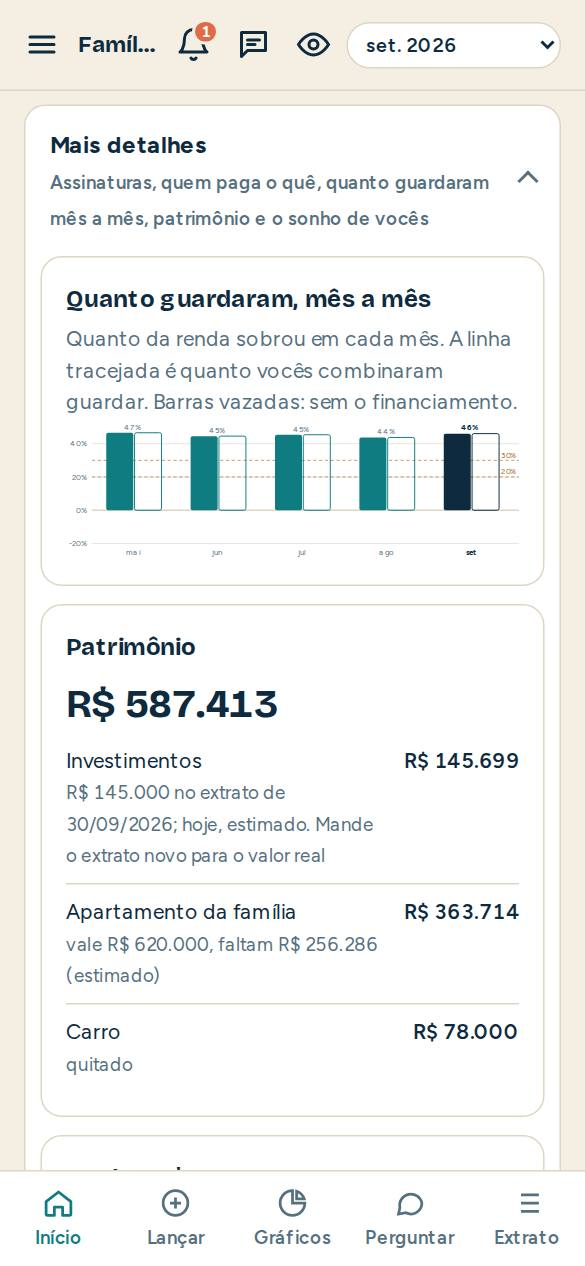
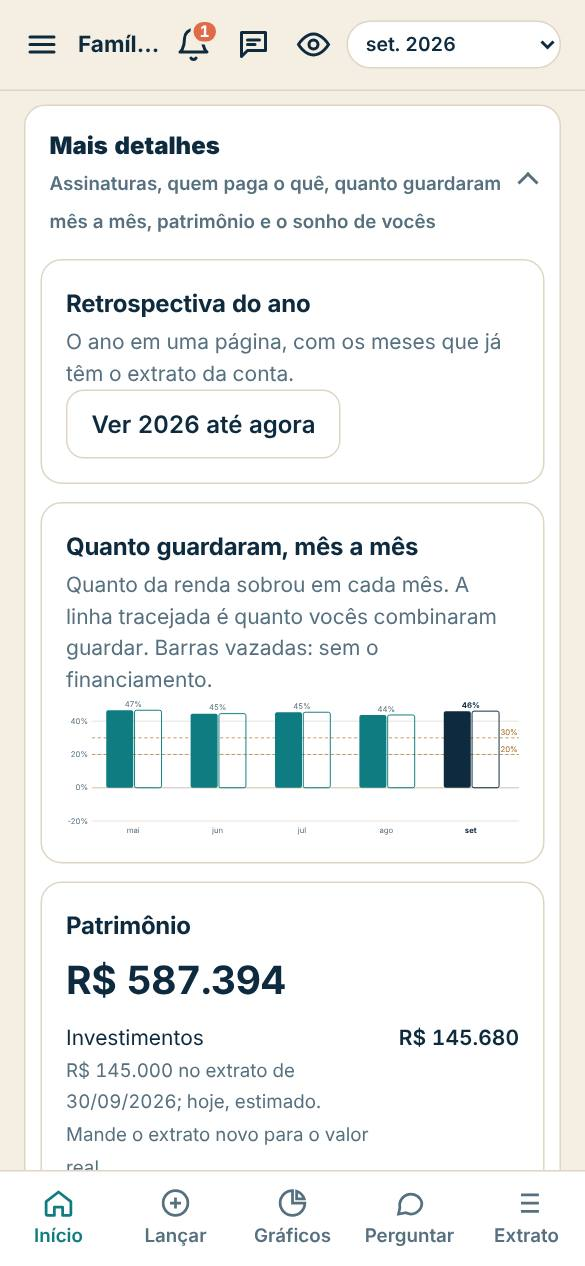
v93: year retrospective (validated sums, share without amounts) and dynamic home (notices on top, new ones marked, message after saving)
Claude-Session: https://claude.ai/code/session_01HTxyDPPEQrF1SknoQ9axHM

diff --git a/public/js/admin/content.js b/public/js/admin/content.js
@@ -1,6 +1,6 @@
 // Starting content for the console's service matrix, documentation and usage labels.
 import { BUG_STUDY } from '../lib/bugstudy.js';
-import { NEW_DOCS, DOC_SONHO, DOC_SEGURANCA, DOC_DORES, DOC_PATRIMONIO, DOC_PARCELAS, DOC_TARIFAS } from '../lib/docsections.js';
+import { NEW_DOCS, DOC_SONHO, DOC_SEGURANCA, DOC_DORES, DOC_PATRIMONIO, DOC_PARCELAS, DOC_TARIFAS, DOC_RETRO_INICIO } from '../lib/docsections.js';
 // Once saved in the console, the database copy is the one that counts.
 
 // Friendly names for the usage keys recorded by the app (public/js/usage.js).
@@ -11,7 +11,7 @@ export const FEATURE_LABELS = {
   'perguntar.enviar': 'Pergunta ao assistente', 'fechar.mes': 'Fechou um mês', 'graficos.salvar': 'Salvou gráfico', privacidade: 'Modo privacidade',
   'opiniao.erro': 'Mandou erro', 'opiniao.ideia': 'Mandou ideia', 'opiniao.critica': 'Mandou crítica', 'duvida.ler': 'Leu uma dúvida', 'duvida.perguntar': 'Perguntou nas Dúvidas',
   'menu.familia': 'Menu: Família', 'menu.divisao': 'Menu: Quem paga o quê', 'menu.metas': 'Menu: Metas', 'menu.patrimonio': 'Menu: Patrimônio', 'menu.categorias': 'Menu: Categorias',
-  'menu.avisos': 'Menu: Notificações', 'inicio.parcelas': 'Abriu as parcelas que mais pesam (Início)', 'inicio.tarifas': 'Abriu o que o banco cobrou (Início)', 'patrimonio.amortizou': 'Abateu uma amortização do financiamento', 'patrimonio.nao_abate': 'Disse que um pagamento não abate financiamento', 'app.atualizar': 'Tocou em "atualizar agora" (versão nova)', 'avisos.convite_sim': 'Aceitou ligar as notificações (pop-up)', 'avisos.convite_nao': 'Disse "agora não" às notificações (pop-up)', 'avisos.ligou': 'Ligou as notificações neste celular', 'aviso.tocou': 'Tocou numa notificação e foi direto ao lugar', 'avisos.teste_chegou': 'O aviso de teste apareceu no celular', 'avisos.teste_nao_chegou': 'Aviso de teste não chegou ao celular (bateria ou internet)', 'avisos.teste_nao_mostrou': 'Aviso de teste chegou, mas o celular não mostrou (ajustes)', 'avisos.teste_bloqueado': 'O celular bloqueou o aviso de teste', 'teste.jornada': 'Dono do produto: rever os convites de abertura', 'menu.contexto': 'Menu: O que o assistente sabe', 'menu.ajuda': 'Menu: Ajuda', 'menu.duvidas': 'Menu: Dúvidas', 'menu.opiniao': 'Menu: Dar opinião',
+  'menu.avisos': 'Menu: Notificações', 'inicio.parcelas': 'Abriu as parcelas que mais pesam (Início)', 'inicio.tarifas': 'Abriu o que o banco cobrou (Início)', 'retro.ano': 'Viu a retrospectiva do ano', 'retro.compartilhar': 'Compartilhou a retrospectiva do ano', 'inicio.novo_aviso': 'Viu um aviso novo no topo do Início', 'patrimonio.amortizou': 'Abateu uma amortização do financiamento', 'patrimonio.nao_abate': 'Disse que um pagamento não abate financiamento', 'app.atualizar': 'Tocou em "atualizar agora" (versão nova)', 'avisos.convite_sim': 'Aceitou ligar as notificações (pop-up)', 'avisos.convite_nao': 'Disse "agora não" às notificações (pop-up)', 'avisos.ligou': 'Ligou as notificações neste celular', 'aviso.tocou': 'Tocou numa notificação e foi direto ao lugar', 'avisos.teste_chegou': 'O aviso de teste apareceu no celular', 'avisos.teste_nao_chegou': 'Aviso de teste não chegou ao celular (bateria ou internet)', 'avisos.teste_nao_mostrou': 'Aviso de teste chegou, mas o celular não mostrou (ajustes)', 'avisos.teste_bloqueado': 'O celular bloqueou o aviso de teste', 'teste.jornada': 'Dono do produto: rever os convites de abertura', 'menu.contexto': 'Menu: O que o assistente sabe', 'menu.ajuda': 'Menu: Ajuda', 'menu.duvidas': 'Menu: Dúvidas', 'menu.opiniao': 'Menu: Dar opinião',
   'menu.applepay': 'Menu: Atalhos do iPhone', 'conta.zerar': 'Zerou os lançamentos da família', 'extrato.anotacao': 'Anotou um lançamento', 'extrato.categoria': 'Filtrou o Extrato por categoria', 'categorias.juntar': 'Juntou duas categorias', 'lancar.varios': 'Enviou vários arquivos de uma vez', 'lancar.planilha': 'Trouxe lançamentos de uma planilha', 'backup.planilha': 'Baixou a planilha (CSV)', 'exemplo.fatura': 'Do mês de exemplo, foi enviar a fatura', 'exemplo.falar': 'Do mês de exemplo, foi lançar falando', 'seguranca.biometria': 'Ligou a digital ou o rosto', 'seguranca.desbloqueio_bio': 'Entrou de novo com a digital ou o rosto', 'seguranca.desbloqueio_senha': 'Entrou de novo com a senha', 'seguranca.aviso': 'Viu o aviso "vamos desconectar em 30 s"', 'seguranca.continuar': 'Tocou em Continuar no app (aviso de inatividade)', 'seguranca.desconectar': 'Tocou em Desconectar agora (aviso de inatividade)', 'seguranca.tempo': 'Mudou o tempo para desconectar', 'seguranca.bloquear': 'Desconectou o app na mão', 'applepay.codigo': 'Gerou código do atalho do iPhone', 'lancar.comprovante': 'Leu comprovante compartilhado', 'atalho.voz': 'Abriu pelo atalho Falar', 'atalho.nota': 'Abriu pelo atalho Nota', 'atalho.pdf': 'Abriu pelo atalho PDF', 'atalho.compartilhar': 'Compartilhou algo com o app', sininho: 'Abriu o sininho', 'menu.backup': 'Menu: Backup', 'menu.sobre': 'Menu: Sobre', 'menu.metricas': 'Menu: Métricas', 'menu.conta': 'Menu: Conta',
 };
 export const AREA_LABELS = { extrato: 'Extrato', conta: 'Conta', exemplo: 'Mês de exemplo', seguranca: 'Segurança', atalho: 'Atalhos', applepay: 'Atalhos do iPhone', aba: 'Abas', lancar: 'Lançar', perguntar: 'Perguntar', fechar: 'Fechar o mês', graficos: 'Gráficos', privacidade: 'Privacidade', opiniao: 'Opinião', duvida: 'Dúvidas', menu: 'Menu' };
@@ -35,6 +35,8 @@ export const SERVICES = [
   sv('split', 'Quem paga o quê', 'Quanto cada um pagou e o acerto do mês', 'Menu → Quem paga o quê', 'no_ar', 'gratis', 'nao', '—', ['menu.divisao']),
   sv('fam', 'Família e convites', 'Convite pelo WhatsApp; todos veem os mesmos números', 'Menu → Família', 'no_ar', 'gratis', 'nao', 'Supabase Auth', ['menu.familia']),
   sv('push', 'Notificações', 'Um aviso por dia no máximo e resumo de domingo; avisos da família', 'Menu → Notificações', 'no_ar', 'gratis', 'nao', 'Web Push; Vercel Cron', ['menu.avisos', 'aviso.tocou', 'avisos.ligou', 'avisos.teste_chegou', 'avisos.teste_nao_chegou', 'avisos.teste_nao_mostrou', 'avisos.teste_bloqueado']),
+  sv('retro_ano', 'Retrospectiva do ano', 'O ano em uma página: quanto guardaram e a meta, melhor e pior mês, para onde mais foi, maior gasto, o que o banco cobrou; compartilhar só a porcentagem', 'Início (cartão em dezembro e janeiro; em Mais detalhes o ano todo)', 'no_ar', 'gratis', 'nao', 'Nenhuma', ['retro.ano', 'retro.compartilhar']),
+  sv('inicio_dinamico', 'Início dinâmico', 'Aviso novo ou que mudou sobe para o topo do Início, marcado como novo; depois de lançar, o app avisa que tem novidade no Início', 'Início; depois de salvar em Lançar', 'no_ar', 'gratis', 'nao', 'Nenhuma', ['inicio.novo_aviso']),
   sv('tarifas', 'Quanto o banco cobrou', 'Juros, multa, IOF, anuidade e tarifas dos últimos 12 meses, da fatura e do extrato; aviso no Início (juros em vermelho) e no celular', 'Início', 'no_ar', 'gratis', 'nao', 'Nenhuma', ['inicio.tarifas']),
   sv('parcelas', 'Parcelas já comprometidas', 'No Início, quanto dos próximos meses já está tomado por parcelas da última fatura, até quando, e as compras que mais pesam', 'Início → Próxima fatura', 'no_ar', 'gratis', 'nao', 'Nenhuma', ['inicio.parcelas']),
   sv('financiamento', 'Financiamento que diminui sozinho', 'O bem fica ligado ao financiamento; as parcelas abatem o saldo todo mês (estimado pelos juros e pelo tipo de parcela, Price ou SAC) e cada amortização confirmada (comprovante, pagamento já salvo ou à mão) abate na hora. Investimentos aparecem com o valor de hoje estimado até o próximo extrato', 'Menu ☰ → Família e metas → Patrimônio e dívidas; Lançar (comprovante); Início', 'no_ar', 'gratis', 'nao', 'Nenhuma', ['patrimonio.amortizou', 'patrimonio.nao_abate']),
@@ -70,6 +72,7 @@ export const DOCS = [
   DOC_PATRIMONIO,
   DOC_PARCELAS,
   DOC_TARIFAS,
+  DOC_RETRO_INICIO,
   { id: 'visao', title: 'Visão geral', body: `**Pra Onde Foi** mostra para a família para onde vai o dinheiro, sem conectar no banco.
 A família manda o PDF da fatura e do extrato (de qualquer banco), lança pix e dinheiro falando, e o app mostra quanto sobrou, onde dá para economizar e se estão no caminho do sonho.
 ## Fase atual

diff --git a/public/js/views/resumo.js b/public/js/views/resumo.js
@@ -7,6 +7,7 @@ import { settle } from '../lib/settle.js';
 import { settings, closeDay } from '../state.js';
 import { renderPendingPayments } from '../debtpay.js';
 import { installmentPlan } from '../lib/parcelas.js';
+import { rankFeed } from '../lib/homefeed.js';
 import { feesOf, FEE_LABEL } from '../lib/bankfees.js';
 import { addM } from '../lib/format.js';
 import { mergeSuggestions } from '../lib/catmerge.js';
@@ -60,6 +61,7 @@ export function render(el) {
   if (goalPreset >= pr.length) goalPreset = 0;
 
   el.innerHTML = `<p class="hello">Olá, ${esc(first())}.</p>
+  <div id="insights" class="insights"></div>
   <div class="panel hero">
     <p class="muted small">Sobra ${yr ? 'em ' + S.m.slice(4) + ' até agora' : 'em ' + mLong(S.m)}</p>
     <div class="big num" style="color:${a.res < 0 ? 'var(--bad)' : 'var(--ink)'}">${brl(a.res)}</div>
@@ -67,7 +69,7 @@ export function render(el) {
     <div class="row" style="margin-top:14px">${[['Receitas', a.E], ['Despesas', a.out], ['Extras (fora da sobra)', a.EX - a.DX]].map(([k, v]) => `<div class="kv"><span class="k">${k}</span><span class="v">${brl0(v)}</span></div>`).join('')}</div>
   </div>
   <div id="closeCard"></div>
-  <div id="insights" class="insights"></div>
+  <div id="retroCard"></div>
   <div class="panel" id="stepsBox" hidden></div>
   <div class="panel" id="budgetBox" hidden></div>
   <div class="panel">
@@ -96,6 +98,7 @@ export function render(el) {
   <details class="more" id="homeMore"${moreOpen() ? ' open' : ''}>
     <summary><span><strong>Mais detalhes</strong><br><span class="tiny muted">Assinaturas, quem paga o quê, quanto guardaram mês a mês, patrimônio e o sonho de vocês</span></span></summary>
     <div class="stack">
+      <div class="panel"><h3>Retrospectiva do ano</h3><p class="small muted">O ano em uma página, com os meses que já têm o extrato da conta.</p><button class="btn" type="button" data-retro="${todayISO().slice(0, 4)}">Ver ${todayISO().slice(0, 4)} até agora</button></div>
       <div class="panel">
         <h3>Quanto guardaram, mês a mês</h3>
         <p class="muted small">Quanto da renda sobrou em cada mês. A linha tracejada é quanto vocês combinaram guardar.${fin ? ' Barras vazadas: sem o financiamento.' : ''}</p>
@@ -124,14 +127,19 @@ export function render(el) {
   el.querySelector('#feesMore')?.addEventListener('toggle', e => { if (e.target.open) track('inicio.tarifas'); });
   renderSteps(el.querySelector('#stepsBox'));
   renderInsights(el.querySelector('#insights'));
+  // The year retrospective: a card in December and January; in "Mais detalhes" the whole year.
+  const td = todayISO(), ry = td.slice(5, 7) === '01' ? String(+td.slice(0, 4) - 1) : td.slice(0, 4), rc = el.querySelector('#retroCard');
+  if (rc && /^(12|01)$/.test(td.slice(5, 7)) && ks.some(k => k.startsWith(ry))) rc.innerHTML = `<article class="closecard"><div><span class="tiny">Retrospectiva</span><h3>O ${ry} de vocês</h3><p class="small">Quanto guardaram, o melhor mês, para onde mais foi e o que o banco cobrou.</p></div><button class="btn primary" type="button" data-retro="${ry}">Ver a retrospectiva</button></article>`;
+  el.querySelectorAll('[data-retro]').forEach(b => b.onclick = () => { S.closeMonth = 'ano:' + b.dataset.retro; S.go('fechar'); });
   if (!yr) renderBudget(el.querySelector('#budgetBox'), cats);
 }
 
 // Home insights: what happened this month and what to do about it.
 const ICON = { good: '<path d="M5 12l5 5 9-10"/>', warn: '<path d="M12 8v5M12 16h.01"/><circle cx="12" cy="12" r="9"/>', bad: '<path d="M12 5v10M7 10l5 5 5-5"/>', info: '<circle cx="12" cy="12" r="9"/><path d="M12 11v5M12 8h.01"/>' };
-function renderInsights(box) {
+// The home notices, the same way for the screen and for "tem novidade no Início" after saving.
+export function homeInsights() {
   const G = goals(), idx = S.catIdx;
-  const list = insights({
+  return insights({
     today: todayISO(), months: monthKeys(), calc: calcMonth,
     cats: k => byCategory(txsOf(k), idx),
     fixed: k => expandSplits(txsOf(k)).reduce((a, t) => { const c = idx.get(t.category); return c && c.grp === 'dia' && c.recurring ? a + (t.source === 'conta' ? -t.amount : +t.amount) : a; }, 0),
@@ -144,6 +152,17 @@ function renderInsights(box) {
     goals: G, nextFatura: nextFatura(), budgets: budgetsOf(settings()), recurring: findRecurring(S.txs, monthKeys(), { idx }), toClose: monthToClose(monthKeys(), settings().closed || {}, todayISO()),
     etaYears: pmt => { if (!(pmt > 0) || !G.patrimonio) return null; const pts = projectFor(pmt, 0, { years: 40 }); const i = pts.findIndex(v => v >= G.patrimonio); return i < 0 ? null : i; },
   }).filter(x => x.id !== 'close');
+}
+// What the family saw last time (per family, on this device): what is new or changed goes to the top.
+const SEEN = () => 'fin.feed.' + (S.hh?.id || '');
+const readSeen = () => { try { return JSON.parse(localStorage.getItem(SEEN()) || 'null'); } catch (e) { return null; } };
+const FRESH = new Set(); // new in this session: stays marked until the app is opened again
+export function freshNotices() { const r = rankFeed(homeInsights(), readSeen()); return r.list.filter(x => r.fresh.includes(x.id)); }
+function renderInsights(box) {
+  const r = rankFeed(homeInsights(), readSeen());
+  r.fresh.forEach(id => FRESH.add(id)); try { localStorage.setItem(SEEN(), JSON.stringify(r.seen)); } catch (e) { /* private mode */ }
+  const list = [...r.list.filter(x => FRESH.has(x.id)), ...r.list.filter(x => !FRESH.has(x.id))];
+  if (list.some(x => FRESH.has(x.id))) track('inicio.novo_aviso');
   const cc = document.getElementById('closeCard'), m2c = monthToClose(monthKeys(), settings().closed || {}, todayISO());
   if (cc) {
     cc.innerHTML = m2c ? `<article class="closecard"><div><span class="tiny">Hora de fechar o mês</span><h3>${esc(mLong(m2c))}</h3><p class="small">Confira se falta algo e veja a retrospectiva. Leva poucos minutos.</p></div><button class="btn primary" type="button" id="goClose">Fechar ${esc(mLong(m2c).split(' ')[0])}</button></article>` : '';
@@ -151,10 +170,11 @@ function renderInsights(box) {
   }
   if (!list.length) { box.hidden = true; return; }
   box.hidden = false;
-  const shown = showAllInsights ? list : list.slice(0, 2);
-  box.innerHTML = shown.map(x => `<article class="insight ${x.tone}"><span class="ii" aria-hidden="true"><svg viewBox="0 0 24 24" fill="none" stroke="currentColor" stroke-width="2.2" stroke-linecap="round">${ICON[x.tone]}</svg></span>
+  const nFresh = list.filter(x => FRESH.has(x.id)).length, base = Math.max(2, Math.min(3, nFresh)), shown = showAllInsights ? list : list.slice(0, base);
+  const after = S.savedAt && Date.now() - S.savedAt < 30 * 60e3;
+  box.innerHTML = shown.map(x => `<article class="insight ${x.tone}${FRESH.has(x.id) ? ' fresh' : ''}">${FRESH.has(x.id) ? `<span class="newtag">${after ? 'Depois do que vocês lançaram' : 'Novo'}</span>` : ''}<span class="ii" aria-hidden="true"><svg viewBox="0 0 24 24" fill="none" stroke="currentColor" stroke-width="2.2" stroke-linecap="round">${ICON[x.tone]}</svg></span>
     <div><h3>${esc(x.title)}</h3><p class="small">${esc(x.text)}</p>${x.action ? `<button class="linkbtn small" type="button" data-go='${esc(JSON.stringify(x.action.go))}'>${esc(x.action.label)} →</button>` : ''}</div></article>`).join('');
-  if (list.length > 2) { box.insertAdjacentHTML('beforeend', `<button class="linkbtn small" type="button" id="insMore">${showAllInsights ? 'Mostrar menos avisos' : 'Ver mais ' + (list.length - 2) + (list.length - 2 > 1 ? ' avisos' : ' aviso')}</button>`); box.querySelector('#insMore').onclick = () => { showAllInsights = !showAllInsights; renderInsights(box); }; }
+  if (list.length > base) { box.insertAdjacentHTML('beforeend', `<button class="linkbtn small" type="button" id="insMore">${showAllInsights ? 'Mostrar menos avisos' : 'Ver mais ' + (list.length - base) + (list.length - base > 1 ? ' avisos' : ' aviso')}</button>`); box.querySelector('#insMore').onclick = () => { showAllInsights = !showAllInsights; renderInsights(box); }; }
   box.querySelectorAll('[data-go]').forEach(b => b.onclick = () => { const g = JSON.parse(b.dataset.go); if (g[0] === 'fechar') S.closeMonth = null; S.go(g[0], g[1], g[2]); });
 }
 

diff --git a/public/js/views/lancar.js b/public/js/views/lancar.js
@@ -1,6 +1,11 @@
 import { S, reindex, closeDay, txsOf, pendingManual, latestCard, latestClosed, monthKeys, settings } from '../state.js';
 import { debtForTx, looksLikeDebtPayment } from '../lib/debt.js';
 import { applyAmortization, AMORT_CAT } from '../debtpay.js';
+// After saving: if the home has news because of it (a warning, a good one), say so.
+function homeNews() {
+  S.savedAt = Date.now();
+  setTimeout(() => import('./resumo.js').then(m => { const x = m.freshNotices().find(n => n.tone !== 'info'); if (x) toast(`${x.title}. Veja no Início.`, x.tone === 'good' ? 'ok' : 'info'); }).catch(() => {}), 3200);
+}
 import { track } from '../usage.js';
 import * as db from '../db.js';
 import { askJSON, aiErrorText } from '../ai.js';
@@ -377,12 +382,12 @@ function renderQ() {
     $('#qSave').disabled = true;
     try {
       const rows = Q.map(it => ({ household_id: S.hh.id, source: it.source, month: it.source === 'cartao' ? cycleMonth(it.date, closeDay()) : it.date.slice(0, 7), date: it.date, day: isoToBr(it.date).slice(0, 5), description: it.description, amount: round2(it.amount), category: it.category, manual: true }));
-      const saved = await db.addTransactions(rows); track('lancar.salvar');
+      const saved = await db.addTransactions(rows); track('lancar.salvar'); homeNews();
       S.txs.push(...saved.map(t => ({ ...t, amount: +t.amount })));
       // Payments confirmed as amortization come off the financing's balance.
       for (let i = 0; i < Q.length; i++) if (Q[i].debtId && saved[i]) {
         const d = (settings().debts || []).find(x => x.id === Q[i].debtId);
-        try { const s = await applyAmortization(Q[i].debtId, { value: Q[i].amount, date: Q[i].date, txId: saved[i].id, note: Q[i].description }); toast(`Pronto! O saldo do ${d?.name || 'financiamento'} agora é ${brl(s)}.`); }
+        try { const s = await applyAmortization(Q[i].debtId, { value: Q[i].amount, date: Q[i].date, txId: saved[i].id, note: Q[i].description }); toast(`O saldo do ${d?.name || 'financiamento'} agora é ${brl(s)}.`); }
         catch (e) { toast('O lançamento foi salvo, mas não consegui abater do financiamento. Faça em Patrimônio e dívidas.'); }
       }
       toast(rows.length > 1 ? 'Lançamentos salvos' : 'Lançamento salvo'); box.hidden = true; Q = null; $('#qText').value = ''; $('#qStatus').textContent = ''; S.render(); docDone('salvo', rows.length > 1 ? rows.length + ' lançamentos' : 'Lançamento');
@@ -662,7 +667,7 @@ async function saveReview(pend) {
   try {
     const payload = rows.map(r => ({ date: r.date || null, day: r.day, description: r.description, amount: round2(r.amount), category: r.category, installment: r.installment || null, card: r.card || null, pending: !!r.pending, ...(r.note ? { note: r.note } : {}) }));
     const label = (source === 'cartao' ? 'Fatura de ' : 'Extrato de ') + mLong(month) + (R.cmp?.mode === 'complement' ? ' (parte)' : '');
-    track('lancar.pdf_ok'); await db.replaceStatement(S.hh.id, source, month, payload, { cards: R.cmp?.cards || [], unknown: !!R.cmp?.unknown }, pend.filter(e => e._match).map(e => e.id), label, PDF.name, { total: info.total ?? null, venc: info.venc || null, saldoIni: info.saldoIni ?? null, saldoFim: info.saldoFim ?? null, viaClaude: !!info.viaClaude, bank: info.bank || PDF.bank || null, totalsOk: info.ok ?? true });
+    track('lancar.pdf_ok'); homeNews(); await db.replaceStatement(S.hh.id, source, month, payload, { cards: R.cmp?.cards || [], unknown: !!R.cmp?.unknown }, pend.filter(e => e._match).map(e => e.id), label, PDF.name, { total: info.total ?? null, venc: info.venc || null, saldoIni: info.saldoIni ?? null, saldoFim: info.saldoFim ?? null, viaClaude: !!info.viaClaude, bank: info.bank || PDF.bank || null, totalsOk: info.ok ?? true });
     notifyFamily('imported', { source, month });
     for (const r of rows.filter(r => r.learn)) { try { await db.learnRule(S.hh.id, source, norm(r.description), r.category); S.rules.push({ source, kind: 'exact', pattern: norm(r.description), category: r.category }); } catch (e) { /* learning is best effort */ } }
     await S.reload();
@@ -773,7 +778,7 @@ function renderSheet() {
       const rows = keep.map(x => ({ household_id: S.hh.id, source: x.source, month: x.month, date: x.date, day: x.day, description: x.description, amount: x.amount, category: x.category, pending: x.category === 'A classificar', manual: false }));
       const label = 'Planilha ' + SH.file.replace(/\.[^.]+$/, '');
       await db.importSheet(S.hh.id, rows, { label, file: SH.file, onStep: (n, t) => BUSY.set(`Salvando: ${n} de ${t}...`, 10 + 85 * n / t) });
-      track('lancar.planilha'); await S.reload();
+      track('lancar.planilha'); await S.reload(); homeNews();
       toast(`Planilha salva: ${rows.length} lançamentos.`); box.hidden = true; SH = null; $('#pdfLog').innerHTML = ''; S.render(); docDone('salvo', label);
     } catch (err) { toast('Não foi possível salvar. ' + db.errorText(err), 'err'); e.target.disabled = false; }
     finally { BUSY?.done(); BUSY = null; }

diff --git a/public/js/views/fechar.js b/public/js/views/fechar.js
@@ -2,7 +2,8 @@
 // fixed expenses that didn't show up, then the month's retrospective.
 import { S, settings, monthKeys, goals, closeDay, reindex } from '../state.js';
 import { track } from '../usage.js';
-import { checklist, retrospective, monthToClose } from '../lib/closing.js';
+import { checklist, retrospective, monthToClose, yearRetro } from '../lib/closing.js';
+import { feesOf } from '../lib/bankfees.js';
 import { brl, brl0, pct, esc, mLong, todayISO, isoToBr, norm, round2, cycleMonth } from '../lib/format.js';
 import * as db from '../db.js';
 import { notifyFamily } from '../push.js';
@@ -13,7 +14,42 @@ import { checkNumber, checkDate } from '../lib/validate.js';
 const ck = '<svg width="14" height="14" viewBox="0 0 24 24" fill="none" stroke="currentColor" stroke-width="3"><path d="M5 12l5 5 9-10"/></svg>';
 const cap = s => s[0].toUpperCase() + s.slice(1);
 
+// "Retrospectiva de 2026": the year in one page, with a way to share how much the family put aside (no amounts).
+function renderYear(el, year) {
+  const r = yearRetro({ year, txs: S.txs, idx: S.catIdx, goals: goals(), fees: feesOf(S.txs.filter(t => t.month.startsWith(year + '-'))), closed: settings().closed || {} });
+  const MES = k => mLong(k).split(' de ')[0];
+  track('retro.ano');
+  el.innerHTML = `<button class="linkbtn small" type="button" data-back>← Voltar ao Início</button>
+  <section class="panel stack retro yretro">
+    <span class="tiny muted">Retrospectiva</span><h2>${year} ${/^fam[ií]lia\b/i.test(S.hh.name || '') ? 'da ' + esc(S.hh.name) : 'da família ' + esc(S.hh.name || '')}</h2>
+    ${!r.n ? '<p class="small">Ainda não há meses completos (com o extrato da conta) neste ano.</p>' : `
+    <p class="small muted">${r.n === 12 ? 'O ano inteiro' : `${r.n} ${r.n > 1 ? 'meses' : 'mês'} com o extrato da conta (${MES(r.months[0])} a ${MES(r.months[r.n - 1])})`}.</p>
+    <div class="retro-big ${r.res < 0 ? 'neg' : ''}"><span class="tiny">Guardaram</span><span class="num">${brl0(r.res)}</span><span class="small">${pct(r.tx)} do que ganharam${r.meta ? ` · a meta era ${pct(r.meta)}` : ''}</span></div>
+    <p class="small">${r.hitGoal ? 'Bateram a meta do ano. ' : r.res > 0 ? 'Sobrou dinheiro no ano. ' : 'O ano está no vermelho até aqui. '}${r.meta ? `Em ${r.good} de ${r.n} meses guardaram a meta ou mais.` : ''}</p>
+    <div class="row">${[['Receitas', r.receitas], ['Despesas', r.despesas], ['O banco cobrou', r.fees]].map(([k, v]) => `<div class="kv"><span class="k">${k}</span><span class="v">${brl0(v)}</span></div>`).join('')}</div>
+    <ul class="list small">
+      ${r.best ? `<li><span>Melhor mês</span><span class="amt">${MES(r.best.month)}: ${brl0(r.best.res)}</span></li>` : ''}
+      ${r.worst ? `<li><span>Mês mais difícil</span><span class="amt">${MES(r.worst.month)}: ${brl0(r.worst.res)}</span></li>` : ''}
+      ${r.big ? `<li><span>Maior gasto do dia a dia<br><span class="tiny muted">${esc(r.big.description)} (${MES(r.big.month)})</span></span><span class="amt">${brl0(r.big.value)}</span></li>` : ''}
+      <li><span>Lançamentos no ano</span><span class="amt">${r.count.toLocaleString('pt-BR')}</span></li>
+      <li><span>Meses fechados</span><span class="amt">${r.closedCount} de ${r.n}</span></li>
+    </ul>
+    ${r.top.length ? `<h4 class="small" style="margin:6px 0 0">Para onde mais foi</h4><ul class="list small">${r.top.map(t => `<li><span>${esc(t.name)}</span><span class="amt">${brl0(t.value)} <span class="tiny muted">${pct(t.share)}</span></span></li>`).join('')}</ul>` : ''}
+    <div class="rowbtn"><button class="btn primary" type="button" id="yrShare">Compartilhar</button></div>
+    <p class="tiny muted">Compartilha só a porcentagem guardada e o convite para o app, sem valores.</p>`}
+  </section>`;
+  el.querySelector('[data-back]').onclick = () => { S.closeMonth = null; S.go('resumo'); };
+  const sh = el.querySelector('#yrShare');
+  if (sh) sh.onclick = async () => {
+    const text = `Em ${year}, a nossa família ${r.res > 0 ? `guardou ${pct(r.tx)} do que ganhou` : 'descobriu para onde foi cada real'} com o Pra Onde Foi. Sem anotar nada e sem senha do banco: https://praondefoi.app.br`;
+    track('retro.compartilhar');
+    try { if (navigator.share) { await navigator.share({ title: `Retrospectiva ${year}`, text }); return; } await navigator.clipboard.writeText(text); toast('Texto copiado. É só colar no WhatsApp.'); }
+    catch (e) { if (e?.name !== 'AbortError') toast('Não foi possível compartilhar agora.'); }
+  };
+}
+
 export function render(el) {
+  if (String(S.closeMonth || '').startsWith('ano:')) return renderYear(el, S.closeMonth.slice(4));
   const st = settings(), closed = st.closed || {};
   const m = S.closeMonth && monthKeys().includes(S.closeMonth) ? S.closeMonth : monthToClose(monthKeys(), closed, todayISO());
   if (!m) {

diff --git a/public/js/lib/faq.js b/public/js/lib/faq.js
@@ -28,6 +28,7 @@ export const FAQ = [
   { id: 'mais', t: 'numeros', q: 'Onde vejo assinaturas, patrimônio e quem paga o quê?', a: 'No fim do Início, toque em "Mais detalhes". Lá ficam as assinaturas (e os aumentos de preço), quem pagou o quê, quanto guardaram mês a mês, o patrimônio e o sonho de vocês.' },
   { id: 'parcelas', t: 'numeros', q: 'Como vejo quanto já devo em parcelas nos próximos meses?', a: 'No Início, em Próxima fatura: o total das parcelas que ainda vão vir e até quando, as barras de cada mês e, em "As que mais pesam", cada compra parcelada com quantas parcelas faltam. Vem da última fatura que vocês mandaram.' },
   { id: 'tarifas', t: 'numeros', q: 'Quanto pago de juros, anuidade e tarifas?', a: 'No Início, em "Quanto o banco cobrou": o total dos últimos 12 meses, por tipo, e cada cobrança em "O que foi cobrado". Vem da fatura e do extrato. Se aparecer juros ou multa, o app avisa.' },
+  { id: 'retro_ano', t: 'numeros', q: 'Onde vejo o resumo do ano?', a: 'Início → Mais detalhes → Retrospectiva do ano. Em dezembro e janeiro aparece também um cartão no topo. Conta só os meses com o extrato da conta, e o Compartilhar manda só a porcentagem guardada, sem valores.' },
   { id: 'lembrete_fatura', t: 'numeros', q: 'O app me lembra de mandar a fatura?', a: 'Sim. De 1 a 6 dias depois que a fatura do cartão fecha, se ela ainda não chegou ao app, vem um aviso no celular (uma vez por fatura) e o Início mostra o lembrete. Tocar leva direto para mandar o PDF; dá para mandar os de todos os cartões de uma vez. O dia de fechamento fica em menu ☰ → Família e metas → Metas.' },
   { id: 'financiamento', t: 'numeros', q: 'Paguei uma amortização do financiamento. Como o saldo diminui?', a: 'Mande o comprovante em Lançar (ou fale "amortizei X do financiamento"). Na revisão, o app pergunta "Isso abate um financiamento?" já com o mais provável escolhido: salve e o saldo cai na hora, o patrimônio líquido sobe e o lançamento vai para "Amortização de financiamento", fora da sobra. Se o pagamento já estava salvo, o Início e Patrimônio e dívidas mostram "Pagamentos que parecem amortização" para confirmar. Também dá para registrar à mão em menu ☰ → Família e metas → Patrimônio e dívidas → Registrar uma amortização.' },
   { id: 'financiamento_parcelas', t: 'numeros', q: 'O saldo do financiamento diminui sozinho todo mês?', a: 'Sim, por estimativa. Com os juros ao ano, a parcela e o tipo de parcela (iguais, Price, ou que diminuem, SAC, com os meses que faltam), o app tira a cada mês a parte da parcela que paga a dívida; o resto é juros. Aparece "(estimado)". Quando chegar o extrato do financiamento, digite o saldo dele em Patrimônio e dívidas e salve: o valor real passa a valer a partir daquele dia.' },

diff --git a/public/js/lib/closing.js b/public/js/lib/closing.js
@@ -50,3 +50,27 @@ export function retrospective({ month: m, txs, idx, goals = {} }) {
     top: cats.slice(0, 5).map(([name, v]) => ({ name, value: Math.round(v * 100) / 100, share: v / total })),
   };
 }
+
+// Year retrospective: the months of the year with the account statement (complete), what came in, went out and
+// stayed; the best and the hardest month; where most of the money went; the biggest expense; what the bank charged.
+// fees: feesOf() of the year's rows (lib/bankfees.js). Only complete months count, so the numbers match the months.
+export function yearRetro({ year, txs, idx, goals = {}, fees = null, closed = {} }) {
+  const of = k => txs.filter(t => t.month === k);
+  const months = [...new Set(txs.filter(t => t.month.startsWith(year + '-') && t.source === 'conta' && !t.manual).map(t => t.month))].sort();
+  const per = months.map(k => ({ month: k, ...monthCalc(of(k), idx) }));
+  const sum = f => Math.round(per.reduce((a, c) => a + (+f(c) || 0), 0) * 100) / 100;
+  const renda = sum(c => c.renda), receitas = sum(c => c.E), despesas = sum(c => c.out), res = sum(c => c.res);
+  const cats = {}; for (const k of months) for (const [n, v] of Object.entries(byCategory(of(k), idx))) cats[n] = (cats[n] || 0) + v;
+  const top = Object.entries(cats).filter(e => e[1] > 0).sort((a, b) => b[1] - a[1]), tot = top.reduce((a, e) => a + e[1], 0) || 1;
+  const byRes = [...per].sort((a, b) => b.res - a.res);
+  // Biggest single day-to-day expense (not extras, not transfers): what the family will remember.
+  let big = null;
+  for (const k of months) for (const t of expandSplits(of(k))) { const c = idx.get(t.category); if (!c || c.grp !== 'dia' || c.recurring || c.financing) continue; const v = t.source === 'conta' ? -t.amount : +t.amount; if (v > 0 && (!big || v > big.value)) big = { description: t.description, value: Math.round(v * 100) / 100, month: k, category: t.category }; }
+  return {
+    year, months, n: months.length, renda, receitas, despesas, res, tx: renda > 0 ? res / renda : 0, meta: goals.savings || 0,
+    hitGoal: !!goals.savings && renda > 0 && res / renda >= goals.savings, good: per.filter(c => goals.savings ? c.tx >= goals.savings : c.res > 0).length,
+    best: byRes[0] ? { month: byRes[0].month, res: byRes[0].res } : null, worst: byRes.length > 1 ? { month: byRes[byRes.length - 1].month, res: byRes[byRes.length - 1].res } : null,
+    top: top.slice(0, 5).map(([name, v]) => ({ name, value: Math.round(v * 100) / 100, share: v / tot })), big,
+    fees: fees ? fees.total : 0, closedCount: months.filter(k => closed[k]).length, count: months.reduce((a, k) => a + of(k).length, 0),
+  };
+}

diff --git a/public/js/lib/releases.js b/public/js/lib/releases.js
@@ -4,7 +4,7 @@
 // The server applies each entry once, at the first app opening after the deploy.
 // tests/release.test.mjs blocks a release without its entry (Definição de pronto, see CLAUDE.md).
 import { BUG_STUDY } from './bugstudy.js';
-import { NEW_DOCS, DOC_AVISOS, DOC_SONHO, DOC_SEGURANCA, DOC_LANCAR, DOC_TESTES, DOC_DORES, DOC_PATRIMONIO, DOC_PARCELAS, DOC_TARIFAS } from './docsections.js';
+import { NEW_DOCS, DOC_AVISOS, DOC_SONHO, DOC_SEGURANCA, DOC_LANCAR, DOC_TESTES, DOC_DORES, DOC_PATRIMONIO, DOC_PARCELAS, DOC_TARIFAS, DOC_RETRO_INICIO } from './docsections.js';
 
 export const RELEASES = [
   { id: 'r27', version: 'v26', at: '2026-10-30T15:00:00Z', backlog: [], news: { id: 'n20261030', title: 'Sua opinião agora tem lugar no app', items: [
@@ -315,4 +315,12 @@ export const RELEASES = [
     'No Início, veja quanto foi de juros, IOF, anuidade e tarifas nos últimos 12 meses, e o que foi cobrado.',
     'Se aparecer juros ou multa na fatura, o app avisa: pagar a fatura inteira, no dia, evita esse custo.',
   ] }, addDocs: [DOC_TARIFAS] },
+  { id: 'r93', version: 'v93', at: '2026-11-05T01:58:00Z', backlog: ['retrospectiva_do_ano'], news: { id: 'n20261105c', title: 'Retrospectiva do ano e um Início que mostra o que mudou', items: [
+    'A retrospectiva do ano: quanto guardaram, o melhor mês, para onde mais foi o dinheiro e o que o banco cobrou. Em Início → Mais detalhes, e em dezembro num cartão no topo.',
+    'Os avisos agora ficam no topo do Início. O que é novo sobe e ganha a marca "Novo".',
+    'Lançou algo e surgiu um aviso? O app conta na hora.',
+  ] }, addDocs: [DOC_RETRO_INICIO], addBacklog: [
+    { id: 'inicio_dinamico', title: 'Início dinâmico: o que é novo sobe para o topo', status: 'feito', origin: 'Luiz', effort: 'M', problem: 'O Início tinha muita coisa e não destacava o que mudou depois de lançar', cost: false, notes: 'Avisos no topo; novo ou mudou desde a última visita sobe com a marca; recado depois de salvar em Lançar.', from: [], where: 'Início' },
+    { id: 'risco_meta_do_mes', title: 'Aviso de risco de não bater a meta no mês (olhando para frente)', status: 'ideia', origin: 'Luiz', effort: 'M', problem: 'Hoje os avisos de meta olham o mês que passou; falta prever no meio do mês', cost: false, notes: 'Precisa de uma conta validada com dados reais (renda média, fatura prevista, fixas) antes de ir ao ar.', from: [] },
+  ] },
 ];

diff --git a/public/js/admin/flows.js b/public/js/admin/flows.js
@@ -14,6 +14,7 @@ export const SCREENS = {
   inicio_exemplo: { title: 'Mês de exemplo', where: 'Início, enquanto a família não tem dados', key: null },
   inicio: { title: 'Início', where: 'Aba Início', key: 'aba.inicio' },
   inicio_mais: { title: 'Mais detalhes', where: 'Início → fim da tela', key: 'aba.inicio' },
+  retro_ano: { title: 'Retrospectiva do ano', where: 'Início → Mais detalhes → Retrospectiva do ano (em dezembro e janeiro, cartão no topo)', key: ['retro.ano', 'retro.compartilhar'] },
   fechar: { title: 'Fechar o mês', where: 'Cartão "Hora de fechar o mês" no Início', key: 'aba.fechar' },
   lancar: { title: 'Lançar', where: 'Aba Lançar', key: 'aba.lancar' },
   lancar_falar: { title: 'Falar ou escrever', where: 'Lançar → Falar ou escrever', key: 'lancar.falar' },
@@ -70,7 +71,7 @@ export const FLOWS = [
   { id: 'geral', title: 'Visão geral', desc: 'Todas as telas, agrupadas por onde ficam.', map: [
     { title: 'Entrada', screens: ['boas_vindas', 'cadastro', 'nome', 'biometria', 'familia', 'apresentacao', 'tour', 'alpha'] },
     { title: 'Abas', screens: ['inicio_exemplo', 'inicio', 'lancar', 'graficos', 'perguntar', 'extrato'] },
-    { title: 'Dentro das abas', screens: ['inicio_mais', 'fechar', 'lancar_falar', 'lancar_salvo', 'lancar_nota', 'lancar_pdf', 'lendo', 'lancar_revisao', 'varios_arquivos', 'planilha', 'categoria', 'anotacao', 'extrato_categoria', 'juntar_categorias', 'perguntar_resposta'] },
+    { title: 'Dentro das abas', screens: ['inicio_mais', 'retro_ano', 'fechar', 'lancar_falar', 'lancar_salvo', 'lancar_nota', 'lancar_pdf', 'lendo', 'lancar_revisao', 'varios_arquivos', 'planilha', 'categoria', 'anotacao', 'extrato_categoria', 'juntar_categorias', 'perguntar_resposta'] },
     { title: 'Menu ☰', screens: ['menu', 'menu_familia', 'menu_divisao', 'menu_metas', 'menu_patrimonio', 'menu_categorias', 'menu_avisos', 'menu_applepay', 'menu_contexto', 'menu_duvidas', 'menu_opiniao', 'menu_ajuda', 'menu_backup', 'menu_sobre', 'menu_conta'] },
     { title: 'Lançar sem abrir o app', screens: ['menu_applepay', 'lancar_comprovante'] },
     { title: 'Opinião e dúvidas', screens: ['opiniao_confirmar', 'opiniao_enviada', 'duvidas_resposta'] },

diff --git a/public/js/lib/docsections.js b/public/js/lib/docsections.js
@@ -151,3 +151,13 @@ export const DOC_TARIFAS = { id: 'tarifas_doc', title: 'Quanto o banco cobrou', 
 - Avisos (Início e celular, um de cada vez): juros ou multa no último mês com dados, em vermelho; senão, as tarifas do mês e dos 12 meses (no celular, no máximo a cada 60 dias).
 - Origem: dor da pesquisa (78% não sabem a taxa do rotativo).
 - Parcelas já comprometidas: validadas com os dados reais; o próximo mês bate (fev e mar exatos) e fica um pouco abaixo quando há compras parceladas novas, o que a tela explica.` };
+
+export const DOC_RETRO_INICIO = { id: 'retro_inicio_doc', title: 'Retrospectiva do ano e Início dinâmico', body: `## Retrospectiva do ano
+- Cartão no Início em dezembro e janeiro; o ano todo em Início → Mais detalhes → Retrospectiva do ano.
+- Só meses completos (com o extrato da conta): guardaram (soma das sobras) e a % da renda contra a meta, em quantos meses bateram a meta, receitas, despesas, o que o banco cobrou, melhor e pior mês, maior gasto do dia a dia (sem fixas nem financiamento), lançamentos, meses fechados e as 5 categorias que mais pesaram.
+- Validado com os dados reais: a soma bate mês a mês.
+- Compartilhar: só a porcentagem guardada e o convite para o app, sem valores (WhatsApp ou copiar).
+## Início dinâmico
+- Os avisos ficam no topo, antes da sobra. O que é novo ou mudou desde a última visita (neste aparelho) sobe e ganha a marca "Novo", ou "Depois do que vocês lançaram" até 30 minutos depois de salvar. Aparecem até 3 quando há novidade.
+- Depois de salvar em Lançar (comprovante, fatura, extrato ou planilha), se surgiu um aviso importante ou bom, o app diz: "<título>. Veja no Início."
+- Riscos que já sobem: fatura acima do limite, orçamento estourado ou perto, guardaram menos que a meta, mês no vermelho, juros na fatura. Um aviso de risco de não bater a meta no mês, olhando para frente, ainda precisa de uma conta validada (backlog).` };

diff --git a/public/js/lib/testbook.js b/public/js/lib/testbook.js
@@ -64,6 +64,12 @@ export const TESTS = [
   t('banco_cobrou', 'Início', 'v92', 'ambos', 'Quanto o banco cobrou',
     ['Início → "Quanto o banco cobrou".', 'Toque em "O que foi cobrado" e compare com a fatura e o extrato.'],
     'Total dos últimos 12 meses e por tipo (juros, IOF, anuidade, tarifas); a lista bate com o que o banco cobrou. Com juros na fatura, o Início mostra o aviso em vermelho.', true),
+  t('retro_ano', 'Início', 'v93', 'ambos', 'Retrospectiva do ano',
+    ['Início → Mais detalhes → Retrospectiva do ano → "Ver 2026 até agora".', 'Confira os números com a soma dos meses.', 'Toque em Compartilhar.'],
+    'Guardaram, % da renda e meta, melhor e pior mês, maior gasto, o que o banco cobrou e as categorias. Compartilhar abre o WhatsApp (ou copia) só com a porcentagem e o convite, sem valores.', true),
+  t('inicio_dinamico', 'Início', 'v93', 'ambos', 'Aviso novo sobe para o topo',
+    ['Lance algo que mude os avisos (por exemplo, uma despesa grande numa categoria com orçamento).', 'Espere uns segundos e volte ao Início.'],
+    'Aparece "<aviso>. Veja no Início."; no Início, o aviso está no topo com a marca "Depois do que vocês lançaram". Ao abrir o app de novo, a marca some.', true),
   t('ritmo_real', 'Início', 'v83', 'ambos', 'Ritmo do sonho pela média real',
     ['Início → cartão "Sonho".'],
     'O primeiro cenário é "Média dos últimos 3 meses (o que sobrou de verdade em …)", com o valor calculado; não aparece mais o "Ritmo atual" fixo.', true),

diff --git a/public/js/debtpay.js b/public/js/debtpay.js
@@ -50,7 +50,7 @@ export function renderPendingPayments(box, { onDone } = {}) {
     const { tx, debt } = list[+b.dataset.yes], before = debtsNow().find(d => d.id === debt.id)?.now.saldo || 0;
     if (!await confirmInline(b, { title: 'Abater do financiamento?', text: `${brl0(Math.abs(tx.amount))} saem do saldo do ${esc(debt.name)} (de ${brl0(before)} para ${brl0(Math.max(0, before - Math.abs(tx.amount)))}) e o patrimônio líquido sobe o mesmo valor. O lançamento passa para "${AMORT_CAT}", fora da sobra do mês.`, yes: 'Sim, abater' })) return;
     b.disabled = true;
-    try { const s = await applyAmortization(debt.id, { value: tx.amount, date: tx.date, txId: tx.id, note: tx.note || tx.description }); toast(`Pronto! O saldo do ${debt.name} agora é ${brl0(s)}.`); onDone?.(); }
+    try { const s = await applyAmortization(debt.id, { value: tx.amount, date: tx.date, txId: tx.id, note: tx.note || tx.description }); toast(`O saldo do ${debt.name} agora é ${brl0(s)}.`); onDone?.(); }
     catch (e) { b.disabled = false; toast('Não foi possível abater agora. ' + db.errorText(e)); }
   });
   box.querySelectorAll('[data-no]').forEach(b => b.onclick = async () => {

diff --git a/public/sw.js b/public/sw.js
@@ -1,6 +1,6 @@
 // Service worker: caches the app shell so it opens fast and installs as an app.
 // Data and /api calls always go to the network.
-const VERSION = 'v92';
+const VERSION = 'v93';
 const SHELL = ['/', '/index.html', '/css/app.css', '/js/main.js', '/js/db.js', '/js/ai.js', '/js/ui.js', '/js/state.js', '/js/speech.js', '/js/tour.js', '/js/steps.js', '/js/onboarding.js', '/js/art.js', '/js/install.js', '/js/push.js', '/js/metrics.js', '/js/privacy.js', '/js/lib/recurring.js', '/js/lib/settle.js', '/js/photos.js', '/js/menu.js', '/js/coach.js', '/js/views/graficos.js', '/js/views/fechar.js', '/js/lib/closing.js', '/js/lib/charts.js', '/js/lib/receipt.js', '/js/lib/insights.js', '/js/lib/budget.js', '/js/lib/pricing.js', '/js/lib/faq.js', '/js/feedback.js', '/js/usage.js', '/js/lib/navlog.js', '/js/applepay.js', '/js/lib/quick.js', '/js/lib/feed.js', '/js/messages.js', '/js/lib/news.js',
   '/js/lib/format.js', '/js/lib/calc.js', '/js/lib/categorize.js', '/js/lib/parse.js', '/js/lib/validate.js',
   '/js/views/resumo.js', '/js/views/lancar.js', '/js/views/perguntar.js', '/js/views/extrato.js', '/js/views/ajustes.js',
